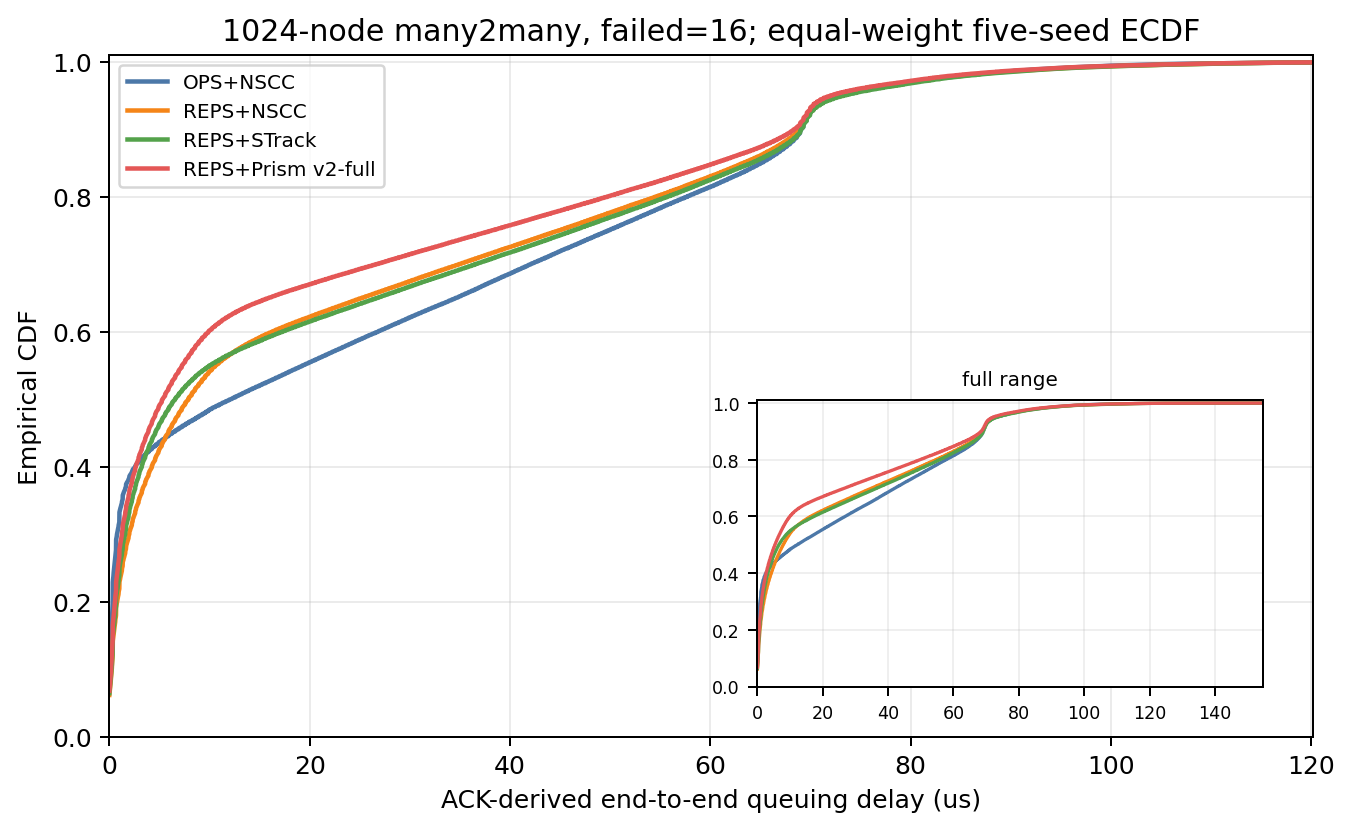
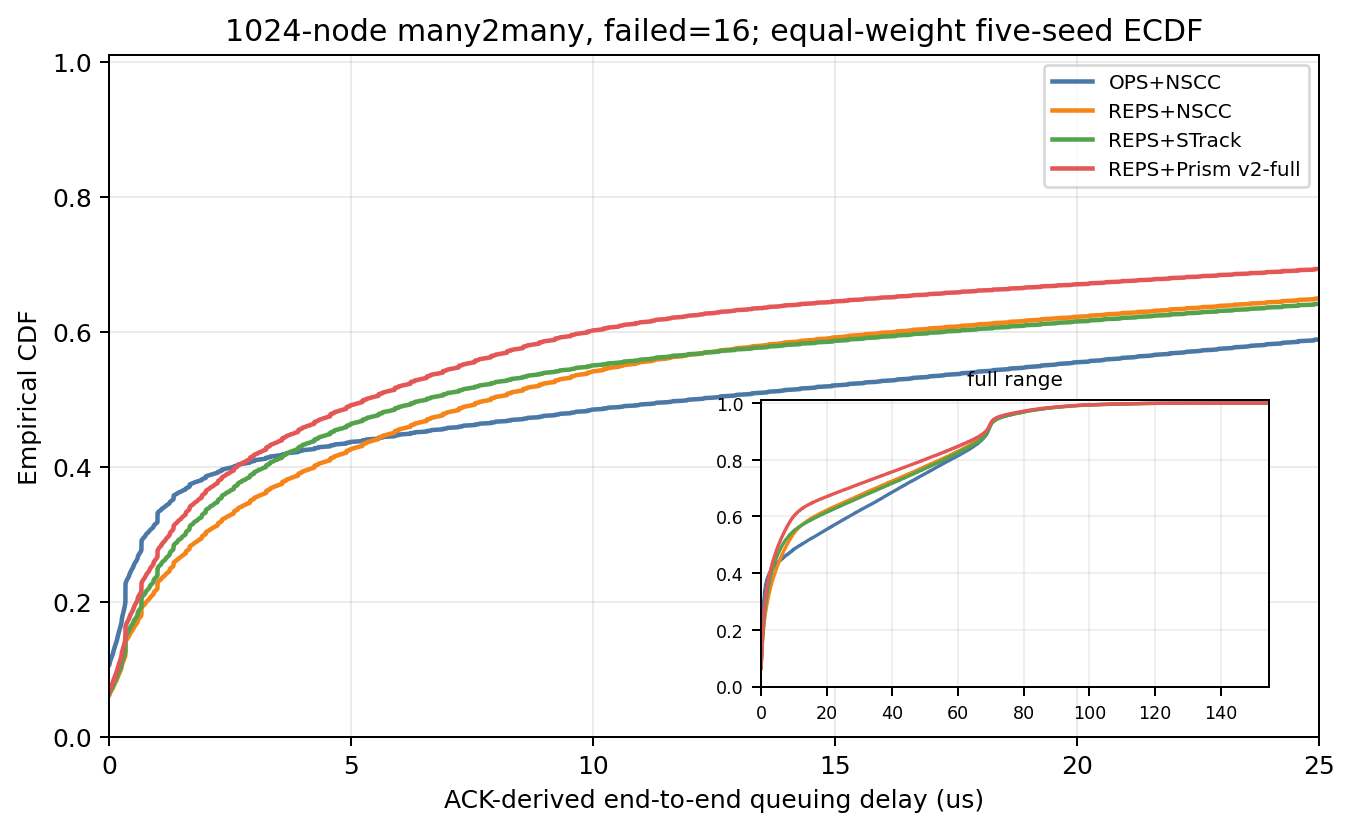
results: focus ACK CDF main range

diff --git a/htsim/sim/datacenter/prism_eval/expI_prism_v2/make_1024_ack_qdelay_cdf.py b/htsim/sim/datacenter/prism_eval/expI_prism_v2/make_1024_ack_qdelay_cdf.py
@@ -24,6 +24,7 @@ import metrics  # noqa: E402
 
 
 COLORS = ("#4c78a8", "#f58518", "#54a24b", "#e45756")
+MAIN_ACK_QDELAY_XMAX_US = 25.0
 
 
 def load_qdelay_us(path: Path) -> list[float]:
@@ -189,8 +190,7 @@ def render(data_dir: Path, output_stem: Path, arms: dict[str, str], seeds: list[
         samples_by_arm[arm] = [load_qdelay_us(_trace_path(data_dir, arm, seed)) for seed in seeds]
 
     all_values = [value for samples in samples_by_arm.values() for seed in samples for value in seed]
-    main_xmax = max(percentile([value for seed in samples for value in seed], 0.999)
-                    for samples in samples_by_arm.values())
+    main_xmax = MAIN_ACK_QDELAY_XMAX_US
     full_xmax = max(all_values)
     grid = plot_grid(all_values, main_xmax)
     full_grid = plot_grid(all_values, full_xmax)

diff --git a/htsim/sim/datacenter/prism_eval/expI_prism_v2/tests/test_ack_qdelay_cdf.py b/htsim/sim/datacenter/prism_eval/expI_prism_v2/tests/test_ack_qdelay_cdf.py
@@ -50,3 +50,7 @@ def test_render_writes_png_and_pdf(tmp_path):
 
     assert output.with_suffix(".png").is_file()
     assert output.with_suffix(".pdf").is_file()
+
+
+def test_main_ack_cdf_is_limited_to_low_delay_range():
+    assert MODULE.MAIN_ACK_QDELAY_XMAX_US == 25.0
